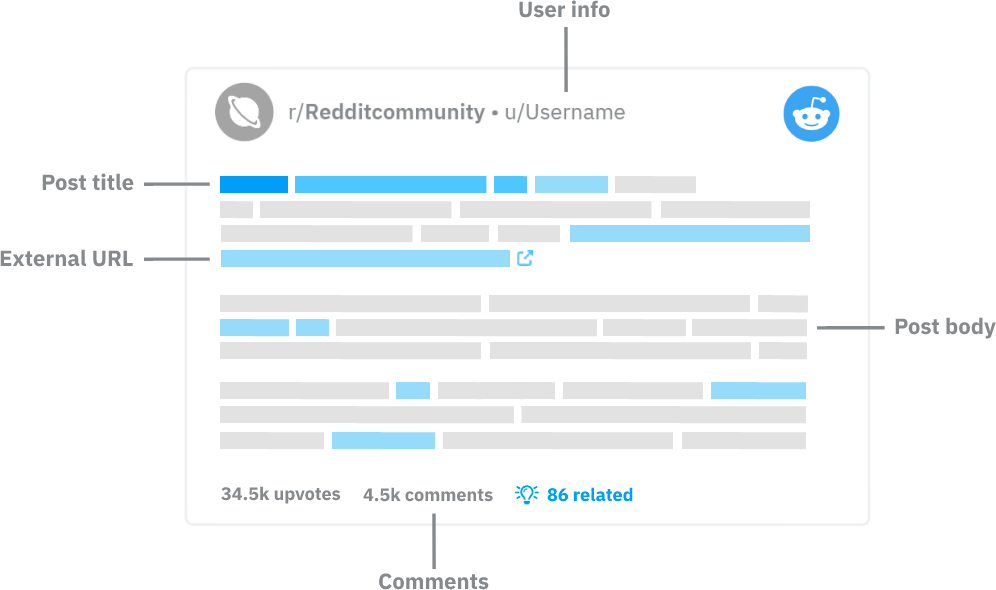
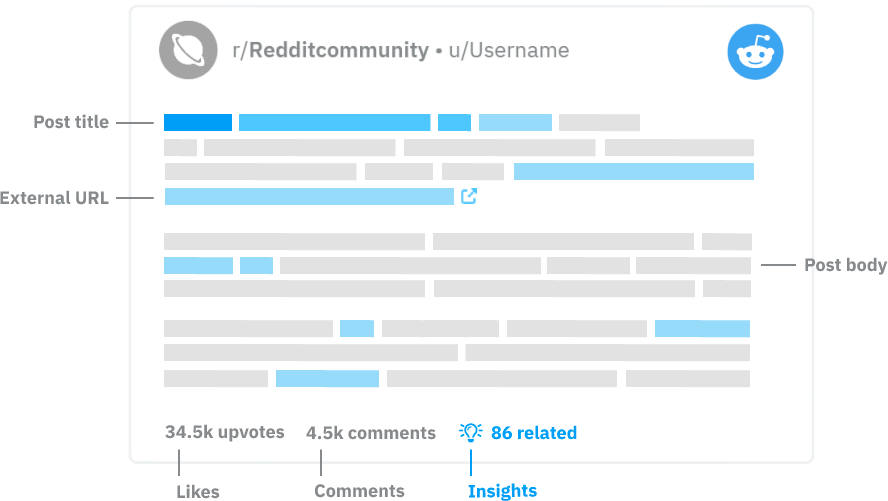
feat: new reddit preview image, minor leayout tweaks

diff --git a/index.html b/index.html
@@ -693,10 +693,10 @@
   <section id="howitworks" class="bg-white pt-20 pb-20 lg:pt-[120px] lg:pb-[120px]">
     <div class="container">
       <div class="flex flex-wrap">
-        <div class="flex items-center justify-center w-full lg:w-1/2 md:mt-20 order-2 lg:order-0">
+        <div class="flex items-center justify-center w-full lg:w-1/2 mt-4 md:mt-20 order-2 lg:order-0">
           <img src="assets/images/previews/reddit-preview.png" class="lg:-ml-24" />
         </div>
-        <div class="w-full px-4 lg:w-1/2">
+        <div class="w-full md:pl-8 lg:w-1/2">
           <div class="max-w-[620px]">
             <span class="mb-2 block text-lg font-semibold text-primary">
               How it works
@@ -706,7 +706,7 @@
             </h2>
             <div>
               <div class="flex mt-12">
-                <div class="rounded-full mr-5 bg-primary w-[70px] h-[70px]  text-white flex justify-center items-center text-4xl flex-shrink-0">1</div>
+                <div class="rounded-full mr-5 bg-primary w-[70px] h-[70px] text-white flex justify-center items-center text-4xl flex-shrink-0">1</div>
                 <div>
                   <h3 class="text-xl mb-1 font-semibold">Article Summary and Analysis</h3>
                   <p class="text-body-color">We read the article and provide a summary of the analysis for you</p>

diff --git a/assets/css/tailwind.css b/assets/css/tailwind.css
@@ -737,6 +737,10 @@ Ensure the default browser behavior of the `hidden` attribute.
   margin-bottom: 0.5rem;
 }
 
+.mt-4 {
+  margin-top: 1rem;
+}
+
 .mt-10 {
   margin-top: 2.5rem;
 }
@@ -2375,6 +2379,10 @@ body {
   
   .md\:-ml-24 {
     margin-left: -6rem;
+  }
+
+  .md\:pl-8 {
+    padding-left: 2rem;
   }
 
   .md\:h-\[400px\] {
